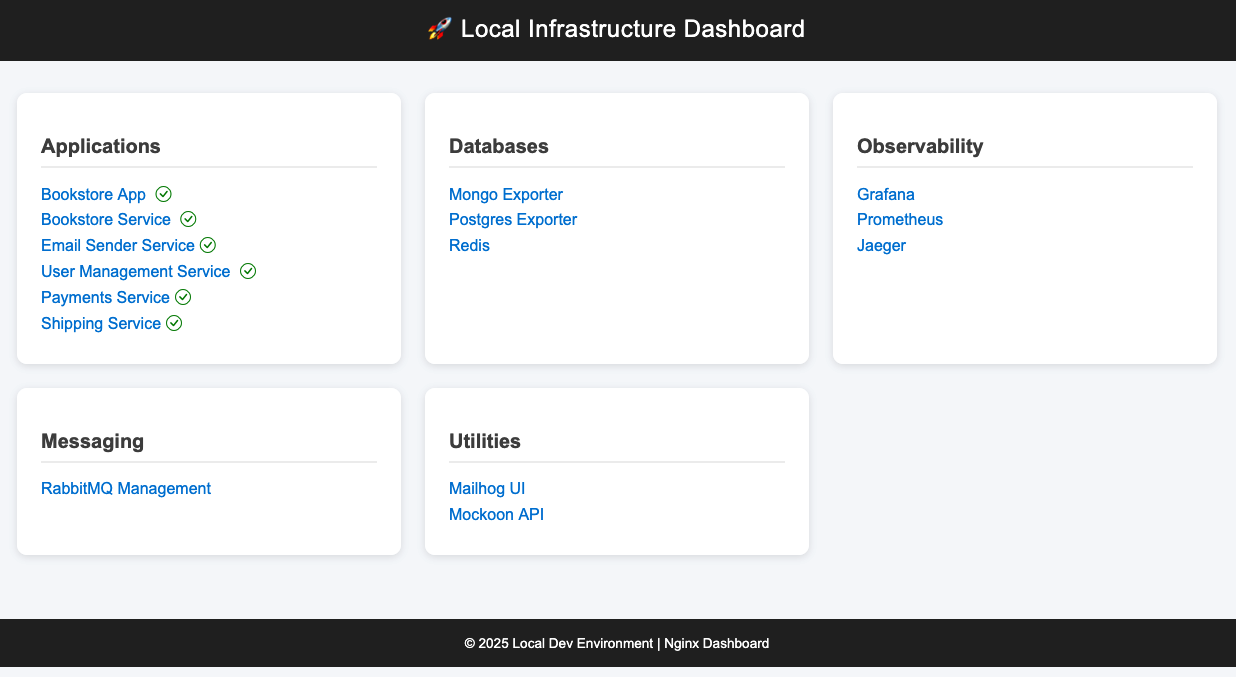
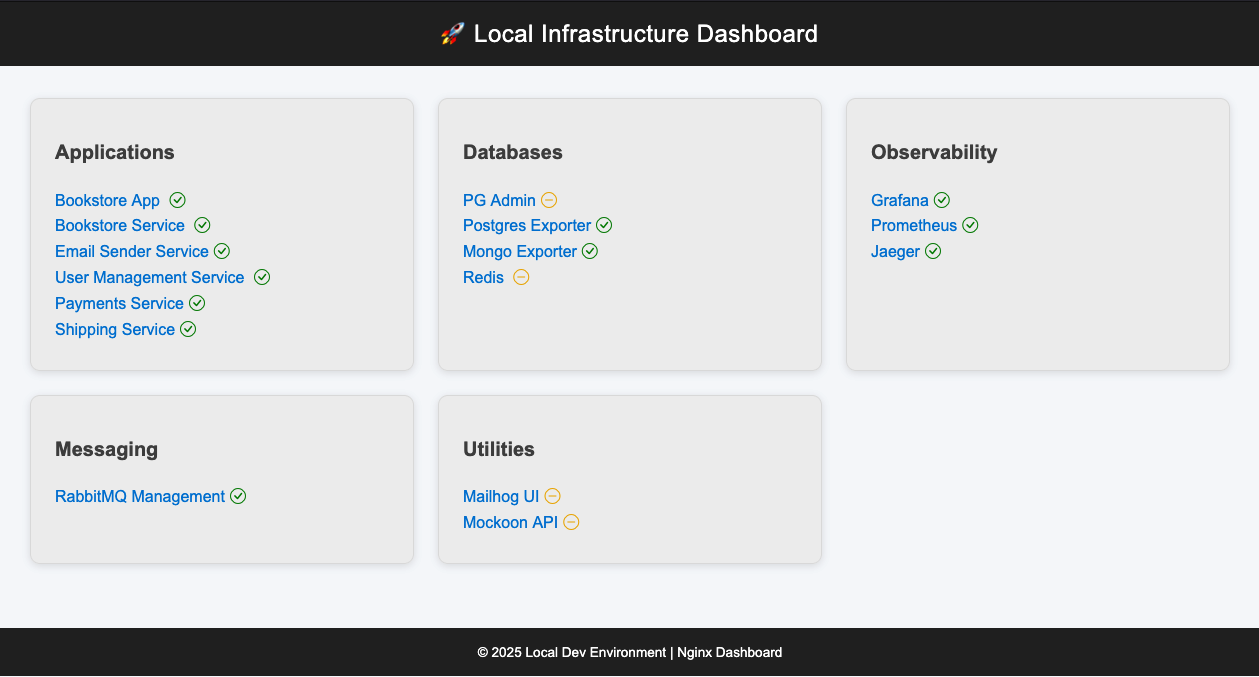
update health check dashboard feature

diff --git a/applications/dashboard-app/index.html b/applications/dashboard-app/index.html
@@ -43,9 +43,16 @@
         <div class="section">
             <h2>Databases</h2>
             <ul>
-                <li><a href="http://localhost:9216" target="_blank">Mongo Exporter</a></li>
-                <li><a href="http://localhost:9187" target="_blank">Postgres Exporter</a></li>
-                <li><a href="http://localhost:6379" target="_blank">Redis</a></li>
+                <li><a href="http://localhost:15432" target="_blank">PG Admin</a><i id="pgadmin"
+                        class="left-space bi bi-dash-circle not-checked" title="Service couldn't be health checked"></i>
+                </li>
+                <li><a href="http://localhost:9187" target="_blank">Postgres Exporter</a><i id="postgresexporter"></i>
+                </li>
+                <li><a href="http://localhost:9216" target="_blank">Mongo Exporter</a><i id="mongoexporter"></i></li>
+                <li><a href="http://localhost:6379" target="_blank">Redis</a>
+                    <i id="redis" class="left-space bi bi-dash-circle not-checked"
+                        title="Service couldn't be health checked"></i>
+                </li>
             </ul>
         </div>
 
@@ -53,9 +60,9 @@
         <div class="section">
             <h2>Observability</h2>
             <ul>
-                <li><a href="http://localhost:3000" target="_blank">Grafana</a></li>
-                <li><a href="http://localhost:9090" target="_blank">Prometheus</a></li>
-                <li><a href="http://localhost:16686" target="_blank">Jaeger</a></li>
+                <li><a href="http://localhost:3000" target="_blank">Grafana</a><i id="grafana"></i></li>
+                <li><a href="http://localhost:9090" target="_blank">Prometheus</a><i id="prometheus"></i></li>
+                <li><a href="http://localhost:16686" target="_blank">Jaeger</a><i id="jaeger"></i></li>
             </ul>
         </div>
 
@@ -63,7 +70,7 @@
         <div class="section">
             <h2>Messaging</h2>
             <ul>
-                <li><a href="http://localhost:15672" target="_blank">RabbitMQ Management</a></li>
+                <li><a href="http://localhost:15672" target="_blank">RabbitMQ Management</a><i id="rabbitmq"></i></li>
             </ul>
         </div>
 
@@ -71,8 +78,12 @@
         <div class="section">
             <h2>Utilities</h2>
             <ul>
-                <li><a href="http://localhost:8025" target="_blank">Mailhog UI</a></li>
-                <li><a href="http://localhost:3001" target="_blank">Mockoon API</a></li>
+                <li><a href="http://localhost:8025" target="_blank">Mailhog UI</a><i id="mailhog"
+                        class="left-space bi bi-dash-circle not-checked" title="Service couldn't be health checked"></i>
+                </li>
+                <li><a href="http://localhost:3001" target="_blank">Mockoon API</a><i id="mockoon"
+                        class="left-space bi bi-dash-circle not-checked" title="Service couldn't be health checked"></i>
+                </li>
             </ul>
         </div>
     </div>

diff --git a/applications/dashboard-app/app.js b/applications/dashboard-app/app.js
@@ -4,28 +4,73 @@ document.addEventListener("DOMContentLoaded", function () {
 
 });
 
-const BACKEND_SERVICES = [
-    "bookstore-service",
-    "shipping-service",
-    "email-sender-service",
-    "payments-service",
-    "user-management-service"
-]
 
-const FRONTEND_SERVICES = [
-    "bookstore"
+const SERVICES = [
+    // {
+    //     name: "pgadmin",
+    //     url: "http://localhost:15432/misc/ping"
+    // },
+    {
+        name: "grafana",
+        url: "http://localhost/grafana"
+    },
+    {
+        name: "rabbitmq",
+        url: "http://localhost/rabbitmq"
+    },
+    {
+        name: "postgresexporter",
+        url: "http://localhost/pgexporter"
+    },
+    {
+        name: "mongoexporter",
+        url: "http://localhost/mongoexporter"
+    },
+    // {
+    //     name: "mailhog",
+    //     url: "http://localhost:8025"
+    // },
+    {
+        name: "jaeger",
+        url: "http://localhost/jaeger"
+    },
+    {
+        name: "prometheus",
+        url: "http://localhost/prometheus"
+    },
+    {
+        name: "bookstore-service",
+        url: "http://localhost/bookstore-service/actuator/health"
+    },
+    {
+        name: "shipping-service",
+        url: "http://localhost/shipping-service/actuator/health"
+    },
+    {
+        name: "email-sender-service",
+        url: "http://localhost/email-sender-service/actuator/health"
+    },
+    {
+        name: "payments-service",
+        url: "http://localhost/payments-service/actuator/health"
+    },
+    {
+        name: "user-management-service",
+        url: "http://localhost/user-management-service/actuator/health"
+    },
+    {
+        name: "bookstore",
+        url: "http://localhost/bookstore"
+    }
+
 ]
 
 async function healthCheck() {
 
     while (true) {
 
-        BACKEND_SERVICES.forEach(service => {
-            checkBackendHealth(service)
-        })
-
-        FRONTEND_SERVICES.forEach(service => {
-            checkFrontendHealth(service)
+        SERVICES.forEach(service => {
+            checkHealthService(service)
         })
 
         await sleep(5000);
@@ -38,31 +83,21 @@ function sleep(ms) {
     return new Promise(resolve => setTimeout(resolve, ms));
 }
 
-async function checkBackendHealth(service) {
+async function checkHealthService(service) {
 
-    try {
-        let response = await fetch(`http://localhost/${service}/actuator/health`);
-
-        updateStatusDashboard(service, response.ok)
-
-    } catch {
-
-        updateStatusDashboard(service, false)
-
+    let options = {
+        method: 'GET',
+        mode: 'no-cors'
     }
 
-}
-
-async function checkFrontendHealth(service) {
-
     try {
-        let response = await fetch(`http://localhost/${service}`);
 
-        updateStatusDashboard(service, response.ok)
+        let response = await fetch(service.url, options);
+        updateStatusDashboard(service.name, response.ok)
 
     } catch {
 
-        updateStatusDashboard(service, false)
+        updateStatusDashboard(service.name, false)
 
     }
 

diff --git a/applications/dashboard-app/styles.css b/applications/dashboard-app/styles.css
@@ -25,11 +25,12 @@ header {
 }
 
 .section {
-    background: #fff;
+    background: #eee;
     border-radius: 10px;
     box-shadow: 0 2px 8px rgba(0, 0, 0, 0.1);
     padding: 1.5rem;
     transition: transform 0.2s ease;
+    border: 1px solid #ddd;
 }
 
 .section:hover {
@@ -79,6 +80,10 @@ footer {
 
 .unhealth {
     color: red;
+}
+
+.not-checked {
+    color: #EAAA00;
 }
 
 .left-space {
